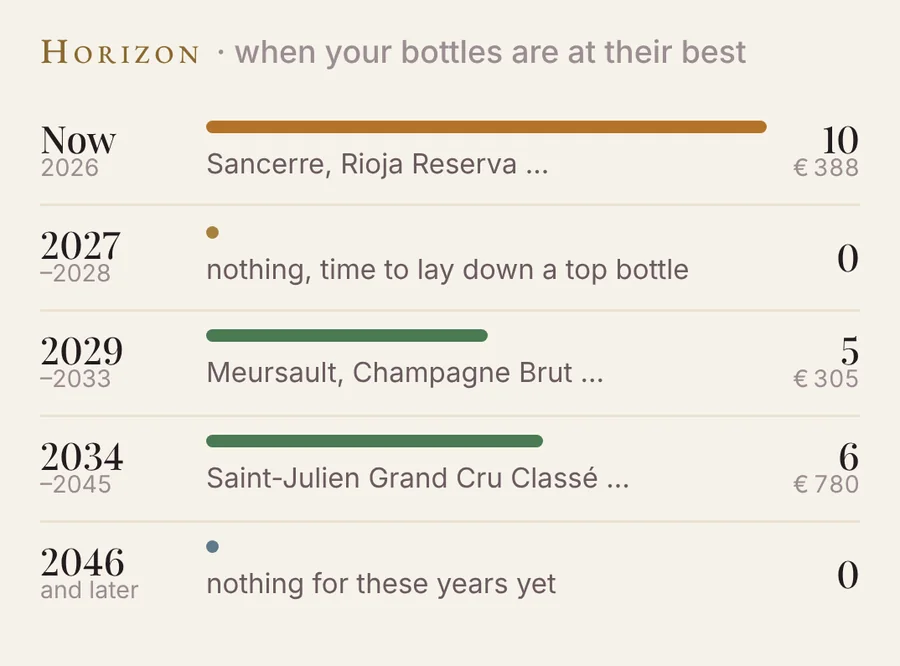
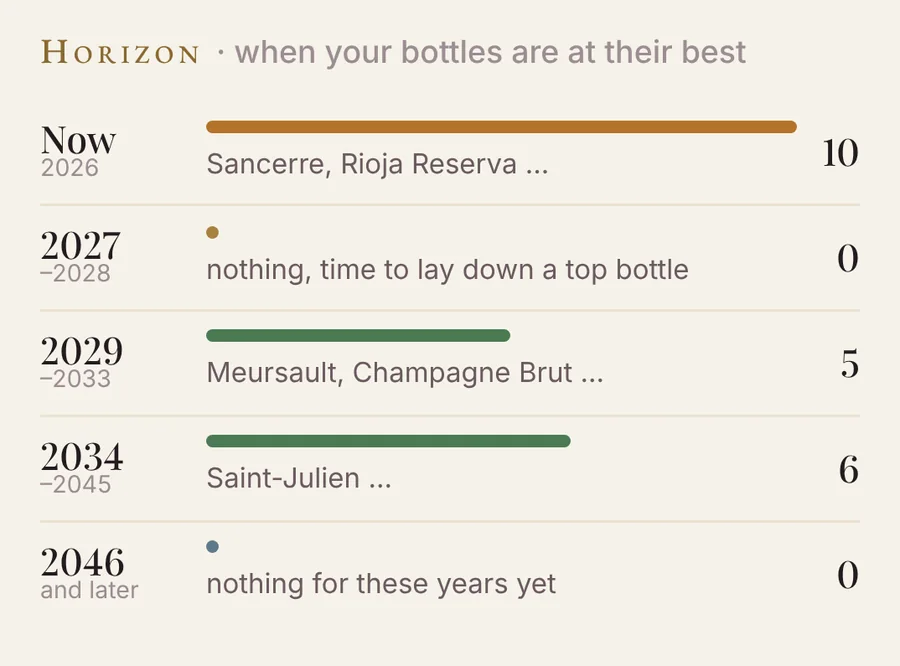
Landing: nieuwe opnames (21 flessen, venster tot 2060, geloofwaardig etiket), donkere schermen bij donkere modus, eend als eend
- eendenborst viel onder Wild; nu onder Eend, zoals 'duck breast' in het Engels (NL en EN geven nu dezelfde scores)
- 'het register van' wordt 'met het juiste gewicht voor'
- picture-bronnen met donkere varianten van alle Fig.-schermen
- oude ronde-1-afbeeldingen verwijderd, og.png en og-en.png opnieuw

Claude-Session: https://claude.ai/code/session_019VryQV3mwNRXQ47tJuwrkx

diff --git a/start/index.html b/start/index.html
@@ -195,8 +195,8 @@ footer a{color:var(--ink3)}
     <figure class="bewijs" hidden><blockquote>[citaat]</blockquote><figcaption>[naam], [plaats]</figcaption></figure>
   </div>
   <div class="beeld">
-    <div class="toestel"><img src="/img/start/v2-nl-detail.webp" alt="Een gescande fles in CellarMentor: Saint-Julien Grand Cru Classé 2016, op dronk, met het drinkvenster tot 2060 op een balk" width="390" height="844" fetchpriority="high"></div>
-    <p class="fig">Fig. 1 · Saint-Julien Grand Cru Classé 2016, op dronk tot 2060</p>
+    <div class="toestel"><picture><source srcset="/img/start/v2-nl-detail-dark.webp" media="(prefers-color-scheme: dark)"><img src="/img/start/v2-nl-detail.webp" alt="Een gescande fles in CellarMentor: Saint-Julien 2016, op dronk, met het drinkvenster tot 2060 op een balk" width="390" height="844" fetchpriority="high"></picture></div>
+    <p class="fig">Fig. 1 · Saint-Julien 2016, op dronk tot 2060</p>
   </div></div>
 </div></section>
 
@@ -207,7 +207,7 @@ footer a{color:var(--ink3)}
 </div></div>
 
 <section class="h"><div class="wrap">
-  <div class="beeld"><div class="toestel"><img src="/img/start/v2-nl-bevestig.webp" alt="De scan: de foto van het etiket bovenaan, daaronder naam, jaargang, druiven en gerechten die erbij passen" width="390" height="844" loading="lazy"></div>
+  <div class="beeld"><div class="toestel"><picture><source srcset="/img/start/v2-nl-bevestig-dark.webp" media="(prefers-color-scheme: dark)"><img src="/img/start/v2-nl-bevestig.webp" alt="De scan: de foto van het etiket bovenaan, daaronder naam, jaargang, druiven en gerechten die erbij passen" width="390" height="844" loading="lazy"></picture></div>
     <p class="fig">Fig. 2 · Eén foto: naam, jaargang en druiven van het etiket</p></div>
   <div class="tekst">
     <div class="eyebrow">Scannen</div>
@@ -218,7 +218,7 @@ footer a{color:var(--ink3)}
 </div></section>
 
 <section class="h om"><div class="wrap">
-  <div class="beeld"><div class="uitsnede"><img src="/img/start/v2-nl-horizon.webp" alt="Horizon: per periode hoeveel flessen op hun mooist zijn, van nu tot 2046 en later" width="900" height="666" loading="lazy"></div>
+  <div class="beeld"><div class="uitsnede"><picture><source srcset="/img/start/v2-nl-horizon-dark.webp" media="(prefers-color-scheme: dark)"><img src="/img/start/v2-nl-horizon.webp" alt="Horizon: per periode hoeveel flessen op hun mooist zijn, van nu tot 2046 en later" width="900" height="666" loading="lazy"></picture></div>
     <p class="fig">Fig. 3 · Horizon: wanneer je flessen op hun mooist zijn</p></div>
   <div class="tekst">
     <div class="eyebrow">Wanneer</div>
@@ -229,7 +229,7 @@ footer a{color:var(--ink3)}
 </div></section>
 
 <section class="h"><div class="wrap">
-  <div class="beeld"><div class="toestel"><img src="/img/start/v2-nl-pairing.webp" alt="Drinken: bij eendenborst staan de beste flessen uit de eigen kelder bovenaan, met de reden erbij" width="390" height="844" loading="lazy"></div>
+  <div class="beeld"><div class="toestel"><picture><source srcset="/img/start/v2-nl-pairing-dark.webp" media="(prefers-color-scheme: dark)"><img src="/img/start/v2-nl-pairing.webp" alt="Drinken: bij eendenborst staan de beste flessen uit de eigen kelder bovenaan, met de reden erbij" width="390" height="844" loading="lazy"></picture></div>
     <p class="fig">Fig. 4 · Eendenborst, uit je eigen kelder</p></div>
   <div class="tekst">
     <div class="eyebrow">Wat erbij</div>
@@ -244,7 +244,7 @@ footer a{color:var(--ink3)}
 </div></section>
 
 <section class="h om"><div class="wrap">
-  <div class="beeld"><div class="toestel"><img src="/img/start/v2-nl-wijnkaart.webp" alt="Uit eten: drie flessen van de wijnkaart gekozen bij een menu van drie gangen" width="390" height="844" loading="lazy"></div>
+  <div class="beeld"><div class="toestel"><picture><source srcset="/img/start/v2-nl-wijnkaart-dark.webp" media="(prefers-color-scheme: dark)"><img src="/img/start/v2-nl-wijnkaart.webp" alt="Uit eten: drie flessen van de wijnkaart gekozen bij een menu van drie gangen" width="390" height="844" loading="lazy"></picture></div>
     <p class="fig">Fig. 5 · Drie gangen, één fles die het hele menu draagt</p></div>
   <div class="tekst">
     <div class="eyebrow">Uit eten</div>
@@ -255,7 +255,7 @@ footer a{color:var(--ink3)}
 </div></section>
 
 <section class="h"><div class="wrap">
-  <div class="beeld"><div class="toestel"><img src="/img/start/v2-nl-kelder.webp" alt="De kelderlijst met per fles de jaargang, de plek en hoe ver hij in zijn venster is" width="390" height="844" loading="lazy"></div>
+  <div class="beeld"><div class="toestel"><picture><source srcset="/img/start/v2-nl-kelder-dark.webp" media="(prefers-color-scheme: dark)"><img src="/img/start/v2-nl-kelder.webp" alt="De kelderlijst met per fles de jaargang, de plek en hoe ver hij in zijn venster is" width="390" height="844" loading="lazy"></picture></div>
     <p class="fig">Fig. 6 · De kelder, met plek en rijpheid per fles</p></div>
   <div class="tekst">
     <div class="eyebrow">Je kelder erin</div>

diff --git a/en/index.html b/en/index.html
@@ -195,8 +195,8 @@ footer a{color:var(--ink3)}
     <figure class="bewijs" hidden><blockquote>[citaat]</blockquote><figcaption>[naam], [plaats]</figcaption></figure>
   </div>
   <div class="beeld">
-    <div class="toestel"><img src="/img/start/v2-en-detail.webp" alt="A scanned bottle in CellarMentor: Saint-Julien Grand Cru Classé 2016, ready to drink, with its drinking window to 2060 on a bar" width="390" height="844" fetchpriority="high"></div>
-    <p class="fig">Fig. 1 · Saint-Julien Grand Cru Classé 2016, ready until 2060</p>
+    <div class="toestel"><picture><source srcset="/img/start/v2-en-detail-dark.webp" media="(prefers-color-scheme: dark)"><img src="/img/start/v2-en-detail.webp" alt="A scanned bottle in CellarMentor: Saint-Julien 2016, ready to drink, with its drinking window to 2060 on a bar" width="390" height="844" fetchpriority="high"></picture></div>
+    <p class="fig">Fig. 1 · Saint-Julien 2016, ready until 2060</p>
   </div></div>
 </div></section>
 
@@ -207,7 +207,7 @@ footer a{color:var(--ink3)}
 </div></div>
 
 <section class="h"><div class="wrap">
-  <div class="beeld"><div class="toestel"><img src="/img/start/v2-en-bevestig.webp" alt="The scan: the photo of the label on top, below it name, vintage, grapes and dishes that go with it" width="390" height="844" loading="lazy"></div>
+  <div class="beeld"><div class="toestel"><picture><source srcset="/img/start/v2-en-bevestig-dark.webp" media="(prefers-color-scheme: dark)"><img src="/img/start/v2-en-bevestig.webp" alt="The scan: the photo of the label on top, below it name, vintage, grapes and dishes that go with it" width="390" height="844" loading="lazy"></picture></div>
     <p class="fig">Fig. 2 · One photo: name, vintage and grapes from the label</p></div>
   <div class="tekst">
     <div class="eyebrow">Scan</div>
@@ -218,7 +218,7 @@ footer a{color:var(--ink3)}
 </div></section>
 
 <section class="h om"><div class="wrap">
-  <div class="beeld"><div class="uitsnede"><img src="/img/start/v2-en-horizon.webp" alt="Horizon: per period how many bottles are at their best, from now to 2046 and later" width="900" height="666" loading="lazy"></div>
+  <div class="beeld"><div class="uitsnede"><picture><source srcset="/img/start/v2-en-horizon-dark.webp" media="(prefers-color-scheme: dark)"><img src="/img/start/v2-en-horizon.webp" alt="Horizon: per period how many bottles are at their best, from now to 2046 and later" width="900" height="666" loading="lazy"></picture></div>
     <p class="fig">Fig. 3 · Horizon: when your bottles are at their best</p></div>
   <div class="tekst">
     <div class="eyebrow">When</div>
@@ -229,7 +229,7 @@ footer a{color:var(--ink3)}
 </div></section>
 
 <section class="h"><div class="wrap">
-  <div class="beeld"><div class="toestel"><img src="/img/start/v2-en-pairing.webp" alt="Drink: for duck breast the best bottles from your own cellar come first, with the reason why" width="390" height="844" loading="lazy"></div>
+  <div class="beeld"><div class="toestel"><picture><source srcset="/img/start/v2-en-pairing-dark.webp" media="(prefers-color-scheme: dark)"><img src="/img/start/v2-en-pairing.webp" alt="Drink: for duck breast the best bottles from your own cellar come first, with the reason why" width="390" height="844" loading="lazy"></picture></div>
     <p class="fig">Fig. 4 · Duck breast, from your own cellar</p></div>
   <div class="tekst">
     <div class="eyebrow">What to pour</div>
@@ -244,7 +244,7 @@ footer a{color:var(--ink3)}
 </div></section>
 
 <section class="h om"><div class="wrap">
-  <div class="beeld"><div class="toestel"><img src="/img/start/v2-en-wijnkaart.webp" alt="Dining out: three bottles from the wine list chosen for a three-course menu" width="390" height="844" loading="lazy"></div>
+  <div class="beeld"><div class="toestel"><picture><source srcset="/img/start/v2-en-wijnkaart-dark.webp" media="(prefers-color-scheme: dark)"><img src="/img/start/v2-en-wijnkaart.webp" alt="Dining out: three bottles from the wine list chosen for a three-course menu" width="390" height="844" loading="lazy"></picture></div>
     <p class="fig">Fig. 5 · Three courses, one bottle for the whole menu</p></div>
   <div class="tekst">
     <div class="eyebrow">Dining out</div>
@@ -255,7 +255,7 @@ footer a{color:var(--ink3)}
 </div></section>
 
 <section class="h"><div class="wrap">
-  <div class="beeld"><div class="toestel"><img src="/img/start/v2-en-kelder.webp" alt="The cellar list with vintage, location and how far each bottle is in its window" width="390" height="844" loading="lazy"></div>
+  <div class="beeld"><div class="toestel"><picture><source srcset="/img/start/v2-en-kelder-dark.webp" media="(prefers-color-scheme: dark)"><img src="/img/start/v2-en-kelder.webp" alt="The cellar list with vintage, location and how far each bottle is in its window" width="390" height="844" loading="lazy"></picture></div>
     <p class="fig">Fig. 6 · The cellar, with place and maturity per bottle</p></div>
   <div class="tekst">
     <div class="eyebrow">Bring your cellar</div>

diff --git a/cellarmentor.html b/cellarmentor.html
@@ -2284,7 +2284,7 @@ const FOODS = [
   {id:'rund', label:'Rundvlees & steak', kw:['rund*','biefstuk*','steak*','entrecote*','tournedos','ribeye','rib eye','ossenhaas*','sucade*','hachee','burger*','hamburger*','tartaar','stoofvlees','stoofpot*','stoverij','bavette','picanha','chateaubriand','cote de boeuf','rosbief','bourguignon','goulash','gehakt*','gehaktbal*','diamanthaas','longhaas','haasbiefstuk*'],
    w:{rood:4}, g:G_BIG_RED, rW:'stevig rood met rijpe tannines draagt rood vlees moeiteloos',
    dishes:['Entrecôte met rodewijnjus','Klassiek stoofvlees','Burger van de grill'], buy:'een stevige Syrah, Malbec of Bordeaux-blend'},
-  {id:'wild', label:'Wild', kw:['wild','wildzwijn*','wildstoof*','wildragout','everzwijn*','hert*','ree','reerug*','reebout*','reefilet*','reestoof*','fazant*','haas','hazen*','hazenpeper','duif*','patrijs*','kwartel*','wilde eend','damhert*','eendenborst'],
+  {id:'wild', label:'Wild', kw:['wild','wildzwijn*','wildstoof*','wildragout','everzwijn*','hert*','ree','reerug*','reebout*','reefilet*','reestoof*','fazant*','haas','hazen*','hazenpeper','duif*','patrijs*','kwartel*','wilde eend','damhert*'],
    w:{rood:4}, g:['pinot','nebbiolo','syrah','grenache','mourvedre','sangiovese'], rW:'aards, gerijpt rood is de klassieke partner van wild',
    dishes:['Hertenbiefstuk met jus van rode port','Gebraden fazant','Wildstoof'], buy:'een gerijpte Pinot Noir, Nebbiolo of noordelijke Rhône'},
   {id:'lam', label:'Lam', kw:['lam','lams*','lammetje*','gigot','shoulder of lamb','lamb'],
@@ -2421,7 +2421,7 @@ function regelReden(x){
   const typeL = (TYPES[pt] ? TYPES[pt].l : pt).toLowerCase();
   const kop = (druif || (TYPES[pt] ? TYPES[pt].l : 'Deze fles')) + (herkomst ? ' uit ' + herkomst : '');
   if(x.grapeHit) return `${kop}: ${(w.grapes||[]).length > 1 ? 'klassieke druiven' : 'een klassieke druif'} bij ${label}.`;
-  if(x.catW >= 3) return druif ? `${kop}: ${typeL}, het register van ${label}.` : `${kop}, het register van ${label}.`;
+  if(x.catW >= 3) return druif ? `${kop}: ${typeL} met het juiste gewicht voor ${label}.` : `${kop}, met het juiste gewicht voor ${label}.`;
   return `${kop}: ${typeL} kan hier ook, al is het niet de eerste keuze bij ${label}.`;
 }
 
@@ -7646,8 +7646,8 @@ const EN_RE = [
   [/^(\d+) scans per maand$/, (m, n) => `${n} scans a month`],
   [/^Kelderregel: (.+)$/, (m, r) => `Cellar rule: ${tr(r)}`],
   [/^(.+?)(?: uit (.+?))?: (?:een klassieke druif|klassieke druiven) bij (.+)\.$/, (m, a, b, l) => `${enEn(a)}${b ? ' from ' + b : ''}: ${/ en /.test(a) ? 'classic grapes' : 'a classic grape'} with ${trLaag(l)}.`],
-  [/^(.+?)(?: uit (.+?))?: (\S+), het register van (.+)\.$/, (m, a, b, t, l) => `${enEn(a)}${b ? ' from ' + b : ''}: ${trLaag(t)} with the weight for ${trLaag(l)}.`],
-  [/^(.+?)(?: uit (.+?))?, het register van (.+)\.$/, (m, a, b, l) => `${enEn(tr(a))}${b ? ' from ' + b : ''}, with the weight for ${trLaag(l)}.`],
+  [/^(.+?)(?: uit (.+?))?: (\S+) met het juiste gewicht voor (.+)\.$/, (m, a, b, t, l) => `${enEn(a)}${b ? ' from ' + b : ''}: ${trLaag(t)} with the right weight for ${trLaag(l)}.`],
+  [/^(.+?)(?: uit (.+?))?, met het juiste gewicht voor (.+)\.$/, (m, a, b, l) => `${enEn(tr(a))}${b ? ' from ' + b : ''}, with the right weight for ${trLaag(l)}.`],
   [/^(.+?)(?: uit (.+?))?: (\S+) kan hier ook, al is het niet de eerste keuze bij (.+)\.$/, (m, a, b, t, l) => `${enEn(a)}${b ? ' from ' + b : ''}: ${trLaag(t)} works too, though it is not the first choice for ${trLaag(l)}.`],
   [/^(Licht|Weinig tannine|Zacht en rond|Droog|Geen hout) tot (Vol|Veel tannine|Fris en strak|Zoet|Veel hout)$/, (m, a, b) => `${EN[a]} to ${EN[b]}`],
   [/^(\d+) fles(?:sen)? zonder prijs$/, (m, n) => `${n} ${bottles(n)} without a price`],

diff --git a/index.html b/index.html
@@ -2315,7 +2315,7 @@ const FOODS = [
   {id:'rund', label:'Rundvlees & steak', kw:['rund*','biefstuk*','steak*','entrecote*','tournedos','ribeye','rib eye','ossenhaas*','sucade*','hachee','burger*','hamburger*','tartaar','stoofvlees','stoofpot*','stoverij','bavette','picanha','chateaubriand','cote de boeuf','rosbief','bourguignon','goulash','gehakt*','gehaktbal*','diamanthaas','longhaas','haasbiefstuk*'],
    w:{rood:4}, g:G_BIG_RED, rW:'stevig rood met rijpe tannines draagt rood vlees moeiteloos',
    dishes:['Entrecôte met rodewijnjus','Klassiek stoofvlees','Burger van de grill'], buy:'een stevige Syrah, Malbec of Bordeaux-blend'},
-  {id:'wild', label:'Wild', kw:['wild','wildzwijn*','wildstoof*','wildragout','everzwijn*','hert*','ree','reerug*','reebout*','reefilet*','reestoof*','fazant*','haas','hazen*','hazenpeper','duif*','patrijs*','kwartel*','wilde eend','damhert*','eendenborst'],
+  {id:'wild', label:'Wild', kw:['wild','wildzwijn*','wildstoof*','wildragout','everzwijn*','hert*','ree','reerug*','reebout*','reefilet*','reestoof*','fazant*','haas','hazen*','hazenpeper','duif*','patrijs*','kwartel*','wilde eend','damhert*'],
    w:{rood:4}, g:['pinot','nebbiolo','syrah','grenache','mourvedre','sangiovese'], rW:'aards, gerijpt rood is de klassieke partner van wild',
    dishes:['Hertenbiefstuk met jus van rode port','Gebraden fazant','Wildstoof'], buy:'een gerijpte Pinot Noir, Nebbiolo of noordelijke Rhône'},
   {id:'lam', label:'Lam', kw:['lam','lams*','lammetje*','gigot','shoulder of lamb','lamb'],
@@ -2452,7 +2452,7 @@ function regelReden(x){
   const typeL = (TYPES[pt] ? TYPES[pt].l : pt).toLowerCase();
   const kop = (druif || (TYPES[pt] ? TYPES[pt].l : 'Deze fles')) + (herkomst ? ' uit ' + herkomst : '');
   if(x.grapeHit) return `${kop}: ${(w.grapes||[]).length > 1 ? 'klassieke druiven' : 'een klassieke druif'} bij ${label}.`;
-  if(x.catW >= 3) return druif ? `${kop}: ${typeL}, het register van ${label}.` : `${kop}, het register van ${label}.`;
+  if(x.catW >= 3) return druif ? `${kop}: ${typeL} met het juiste gewicht voor ${label}.` : `${kop}, met het juiste gewicht voor ${label}.`;
   return `${kop}: ${typeL} kan hier ook, al is het niet de eerste keuze bij ${label}.`;
 }
 
@@ -7677,8 +7677,8 @@ const EN_RE = [
   [/^(\d+) scans per maand$/, (m, n) => `${n} scans a month`],
   [/^Kelderregel: (.+)$/, (m, r) => `Cellar rule: ${tr(r)}`],
   [/^(.+?)(?: uit (.+?))?: (?:een klassieke druif|klassieke druiven) bij (.+)\.$/, (m, a, b, l) => `${enEn(a)}${b ? ' from ' + b : ''}: ${/ en /.test(a) ? 'classic grapes' : 'a classic grape'} with ${trLaag(l)}.`],
-  [/^(.+?)(?: uit (.+?))?: (\S+), het register van (.+)\.$/, (m, a, b, t, l) => `${enEn(a)}${b ? ' from ' + b : ''}: ${trLaag(t)} with the weight for ${trLaag(l)}.`],
-  [/^(.+?)(?: uit (.+?))?, het register van (.+)\.$/, (m, a, b, l) => `${enEn(tr(a))}${b ? ' from ' + b : ''}, with the weight for ${trLaag(l)}.`],
+  [/^(.+?)(?: uit (.+?))?: (\S+) met het juiste gewicht voor (.+)\.$/, (m, a, b, t, l) => `${enEn(a)}${b ? ' from ' + b : ''}: ${trLaag(t)} with the right weight for ${trLaag(l)}.`],
+  [/^(.+?)(?: uit (.+?))?, met het juiste gewicht voor (.+)\.$/, (m, a, b, l) => `${enEn(tr(a))}${b ? ' from ' + b : ''}, with the right weight for ${trLaag(l)}.`],
   [/^(.+?)(?: uit (.+?))?: (\S+) kan hier ook, al is het niet de eerste keuze bij (.+)\.$/, (m, a, b, t, l) => `${enEn(a)}${b ? ' from ' + b : ''}: ${trLaag(t)} works too, though it is not the first choice for ${trLaag(l)}.`],
   [/^(Licht|Weinig tannine|Zacht en rond|Droog|Geen hout) tot (Vol|Veel tannine|Fris en strak|Zoet|Veel hout)$/, (m, a, b) => `${EN[a]} to ${EN[b]}`],
   [/^(\d+) fles(?:sen)? zonder prijs$/, (m, n) => `${n} ${bottles(n)} without a price`],
